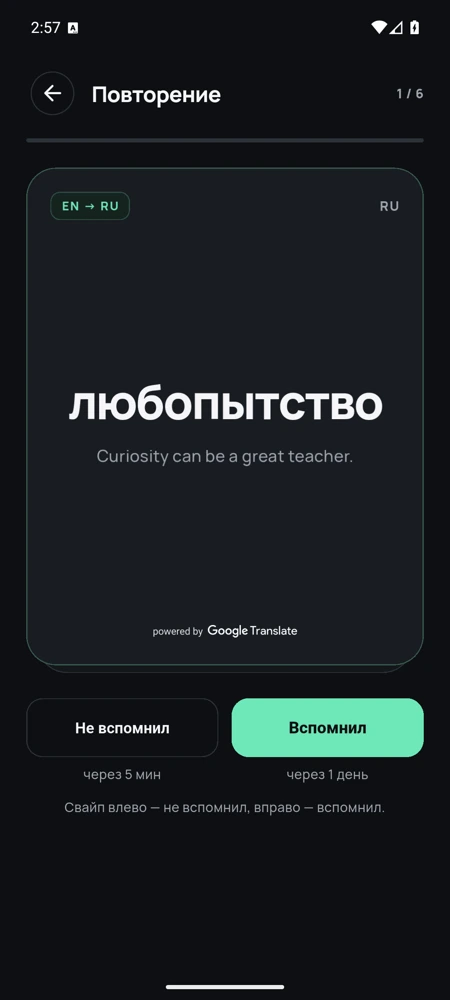
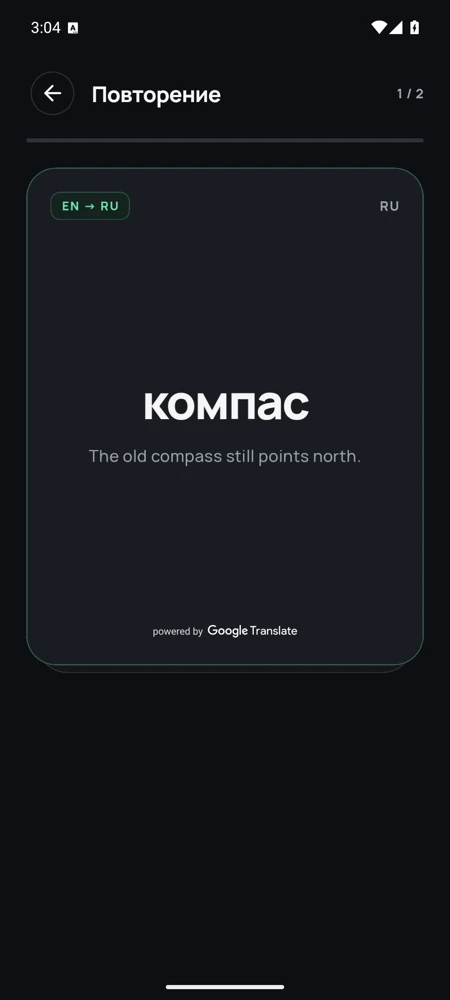
Use swipes to rate review cards

diff --git a/lib/src/review_screen.dart b/lib/src/review_screen.dart
@@ -2,6 +2,7 @@ import 'dart:math' as math;
 
 import 'package:flutter/material.dart';
 import 'package:flutter/physics.dart';
+import 'package:flutter/semantics.dart' show CustomSemanticsAction;
 import 'package:flutter/services.dart';
 
 import 'design.dart';
@@ -202,6 +203,7 @@ class _ReviewScreenState extends State<ReviewScreen>
   Widget _activeCard(ReviewCard card, double width, double height) {
     final extraCard = _index + 1 < widget.queue.length;
     final reducedMotion = MediaQuery.disableAnimationsOf(context);
+    final canRate = _revealComplete && !_submitting;
     return Column(
       crossAxisAlignment: CrossAxisAlignment.stretch,
       children: [
@@ -228,102 +230,79 @@ class _ReviewScreenState extends State<ReviewScreen>
                 left: 0,
                 right: 0,
                 height: height,
-                child: GestureDetector(
-                  onTap: _reveal,
-                  onHorizontalDragStart: _submitting || !_revealComplete
-                      ? null
-                      : (_) => _slide.stop(),
-                  onHorizontalDragUpdate: _submitting || !_revealComplete
-                      ? null
-                      : (details) => _slide.value += details.delta.dx,
-                  onHorizontalDragCancel: _submitting ? null : () => _settle(0),
-                  onHorizontalDragEnd: _submitting || !_revealComplete
-                      ? null
-                      : (details) => _endDrag(details, width),
-                  child: AnimatedBuilder(
-                    animation: Listenable.merge([_flip, _slide]),
-                    builder: (context, _) {
-                      final angle =
-                          Curves.easeInOutCubic.transform(_flip.value) *
-                          math.pi;
-                      final back = angle >= math.pi / 2;
-                      final offset = _slide.value;
-                      final transform = Matrix4.identity()
-                        ..setEntry(3, 2, .0015)
-                        ..rotateZ(
-                          reducedMotion
-                              ? 0
-                              : (offset / width * .28).clamp(-.3, .3),
-                        )
-                        ..rotateY(back ? angle - math.pi : angle);
-                      return Transform.translate(
-                        offset: Offset(offset, 0),
-                        child: Transform(
-                          alignment: Alignment.center,
-                          transform: transform,
-                          child: _CardFace(
-                            card: card,
-                            back: back,
-                            highlight: (offset / width).abs().clamp(0.0, .5),
-                            positive: offset > 0,
+                child: Semantics(
+                  customSemanticsActions: canRate
+                      ? {
+                          const CustomSemanticsAction(
+                            label: 'Не вспомнил',
+                          ): () =>
+                              _rate(Grade.again, width),
+                          const CustomSemanticsAction(label: 'Вспомнил'): () =>
+                              _rate(Grade.remembered, width),
+                        }
+                      : null,
+                  child: GestureDetector(
+                    onTap: _revealComplete ? null : _reveal,
+                    onHorizontalDragStart: canRate
+                        ? (_) => _slide.stop()
+                        : null,
+                    onHorizontalDragUpdate: canRate
+                        ? (details) => _slide.value += details.delta.dx
+                        : null,
+                    onHorizontalDragCancel: canRate ? () => _settle(0) : null,
+                    onHorizontalDragEnd: canRate
+                        ? (details) => _endDrag(details, width)
+                        : null,
+                    child: AnimatedBuilder(
+                      animation: Listenable.merge([_flip, _slide]),
+                      builder: (context, _) {
+                        final angle =
+                            Curves.easeInOutCubic.transform(_flip.value) *
+                            math.pi;
+                        final back = angle >= math.pi / 2;
+                        final offset = _slide.value;
+                        final transform = Matrix4.identity()
+                          ..setEntry(3, 2, .0015)
+                          ..rotateZ(
+                            reducedMotion
+                                ? 0
+                                : (offset / width * .28).clamp(-.3, .3),
+                          )
+                          ..rotateY(back ? angle - math.pi : angle);
+                        return Transform.translate(
+                          offset: Offset(offset, 0),
+                          child: Transform(
+                            alignment: Alignment.center,
+                            transform: transform,
+                            child: _CardFace(
+                              card: card,
+                              back: back,
+                              highlight: (offset / width).abs().clamp(0.0, .5),
+                              positive: offset > 0,
+                            ),
                           ),
-                        ),
-                      );
-                    },
+                        );
+                      },
+                    ),
                   ),
                 ),
               ),
             ],
           ),
         ),
-        const SizedBox(height: 23),
-        if (!_revealComplete)
+        if (!_revealComplete) ...[
+          const SizedBox(height: 23),
           FilledButton(
             onPressed: _flip.isAnimating ? null : _reveal,
             child: const Text('Показать перевод'),
-          )
-        else
-          Row(
-            crossAxisAlignment: CrossAxisAlignment.start,
-            children: [
-              Expanded(child: _rating(card, Grade.again, width)),
-              const SizedBox(width: 12),
-              Expanded(child: _rating(card, Grade.remembered, width)),
-            ],
           ),
-        const SizedBox(height: 12),
-        Text(
-          _revealComplete
-              ? 'Свайп влево — не вспомнил, вправо — вспомнил.'
-              : 'Вспомните перевод, затем переверните карточку.',
-          textAlign: TextAlign.center,
-          style: body.copyWith(fontSize: 12),
-        ),
-      ],
-    );
-  }
-
-  Widget _rating(ReviewCard card, Grade grade, double width) {
-    final positive = grade == Grade.remembered;
-    final name = positive ? 'Вспомнил' : 'Не вспомнил';
-    final onTap = _submitting ? null : () => _rate(grade, width);
-    return Column(
-      crossAxisAlignment: CrossAxisAlignment.stretch,
-      children: [
-        if (positive)
-          FilledButton(onPressed: onTap, child: Text(name))
-        else
-          OutlinedButton(
-            onPressed: onTap,
-            style: OutlinedButton.styleFrom(minimumSize: const Size(0, 54)),
-            child: Text(name),
+          const SizedBox(height: 12),
+          Text(
+            'Вспомните перевод, затем переверните карточку.',
+            textAlign: TextAlign.center,
+            style: body.copyWith(fontSize: 12),
           ),
-        const SizedBox(height: 6),
-        Text(
-          intervalLabel(card.state, grade),
-          style: body.copyWith(fontSize: 12),
-          textAlign: TextAlign.center,
-        ),
+        ],
       ],
     );
   }

diff --git a/test/review_test.dart b/test/review_test.dart
@@ -5,9 +5,7 @@ import 'package:thinkcaps/src/lexicon.dart';
 import 'package:thinkcaps/src/review_screen.dart';
 
 void main() {
-  testWidgets('both directions reveal before accepting a rating', (
-    tester,
-  ) async {
+  testWidgets('each revealed card accepts a rating by swipe', (tester) async {
     final fresh = ReviewState(due: DateTime.utc(2026, 11, 18));
     final entry = Entry(
       id: 1,
@@ -37,7 +35,11 @@ void main() {
     await tester.pumpAndSettle();
     expect(find.text('любопытство'), findsOneWidget);
     expect(find.text(entry.context), findsOneWidget);
-    await tester.tap(find.text('Вспомнил'));
+    expect(find.byType(FilledButton), findsNothing);
+    expect(find.byType(OutlinedButton), findsNothing);
+    expect(find.textContaining('через'), findsNothing);
+    expect(find.textContaining('Свайп'), findsNothing);
+    await tester.fling(find.text('любопытство'), const Offset(280, 0), 950);
     await tester.pumpAndSettle();
     expect(find.text('RU → EN'), findsOneWidget);
     expect(find.text('любопытство'), findsOneWidget);

diff --git a/lib/src/lexicon.dart b/lib/src/lexicon.dart
@@ -114,12 +114,6 @@ String plural(int count, String one, String few, String many) {
   };
 }
 
-String intervalLabel(ReviewState state, Grade grade) {
-  if (grade == Grade.again) return 'через 5 мин';
-  final days = state.after(grade, DateTime.utc(2000)).days;
-  return 'через $days ${plural(days, 'день', 'дня', 'дней')}';
-}
-
 String normalizeTerm(String text) =>
     text.trim().replaceAll(RegExp(r'\s+'), ' ').replaceAll('’', "'");
 
